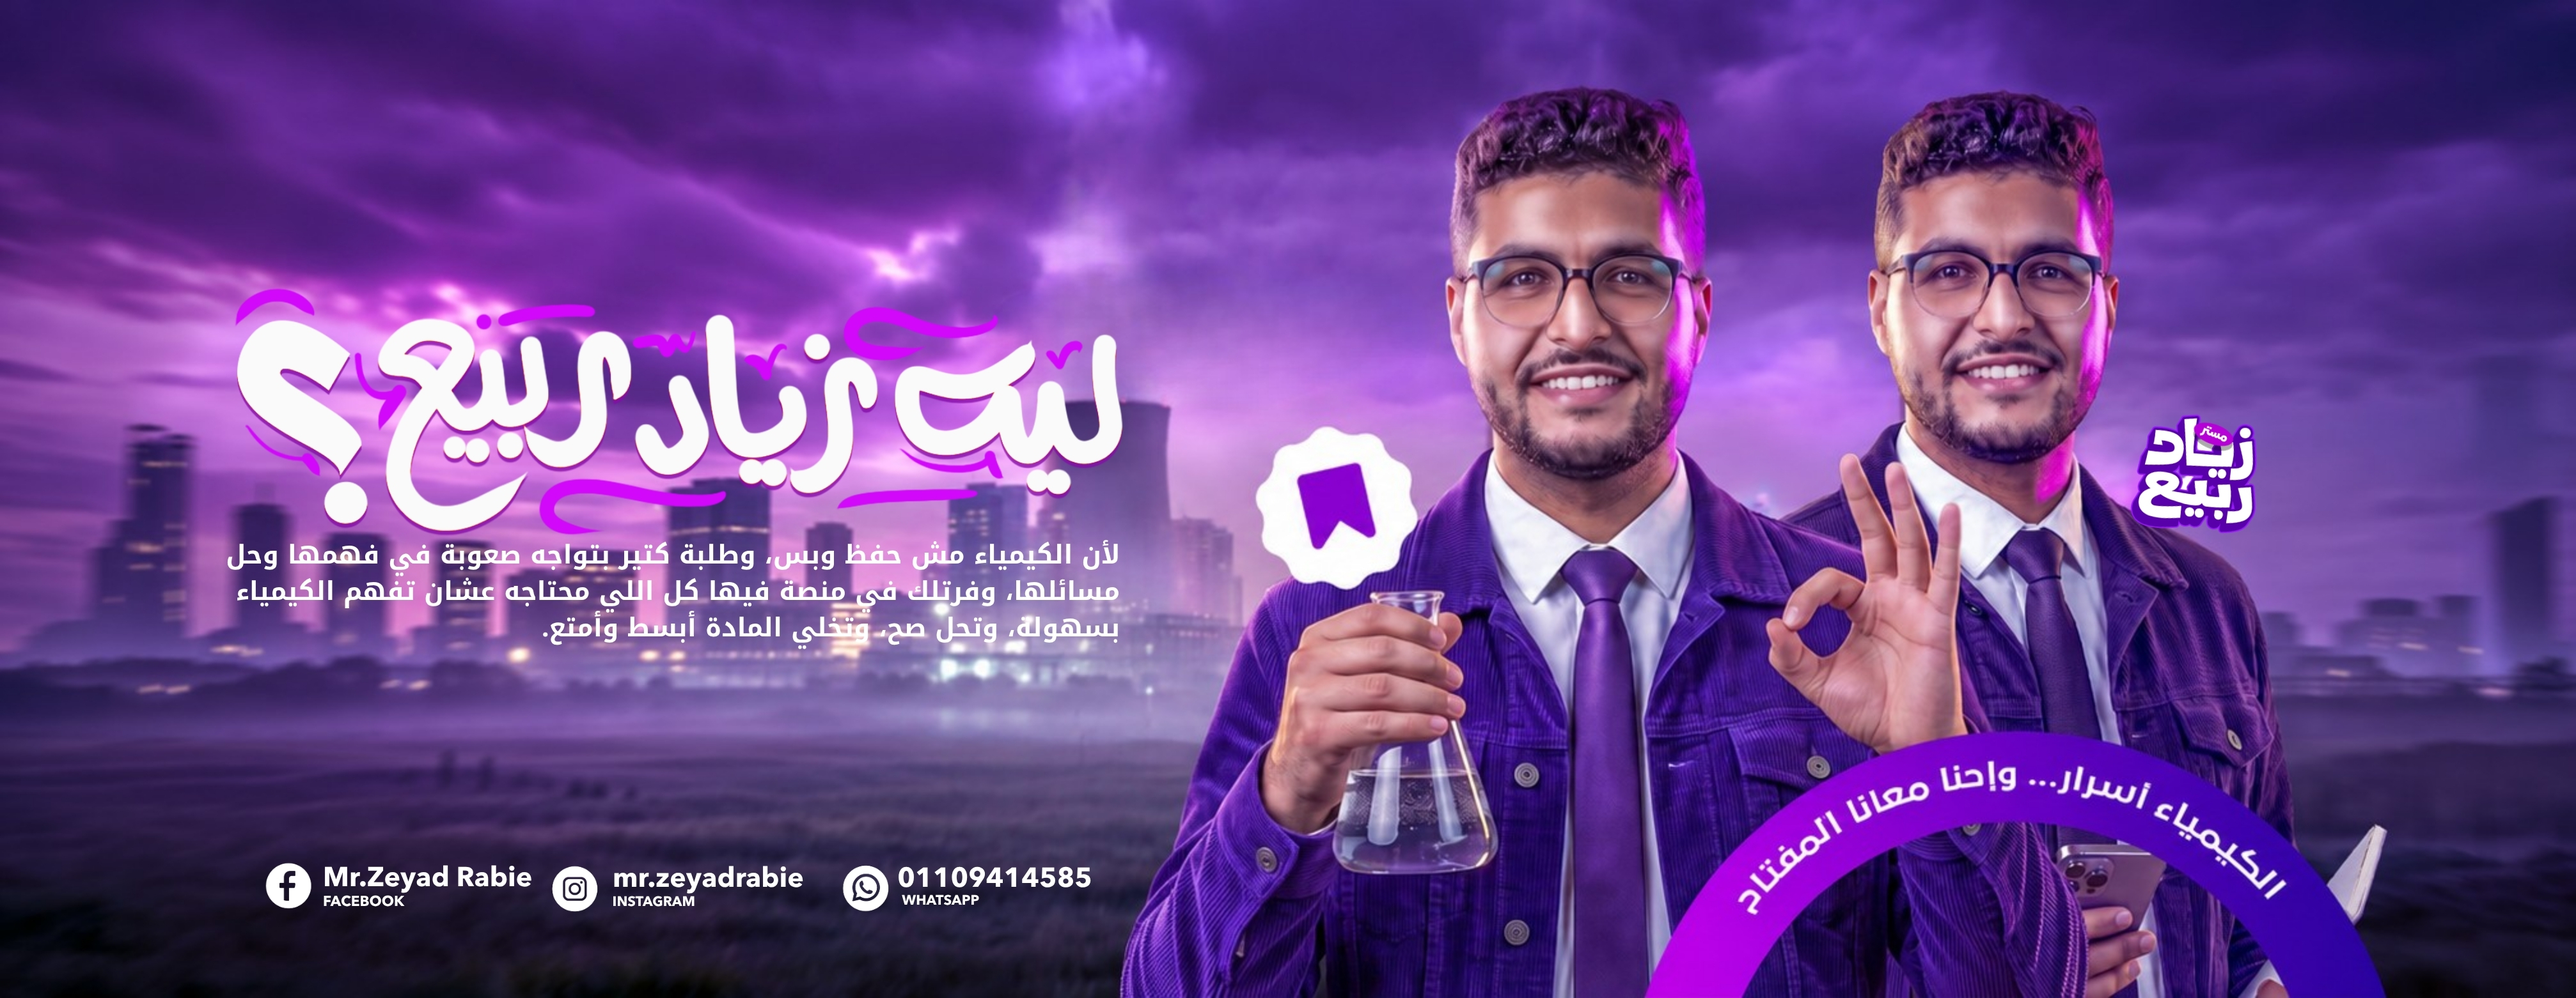
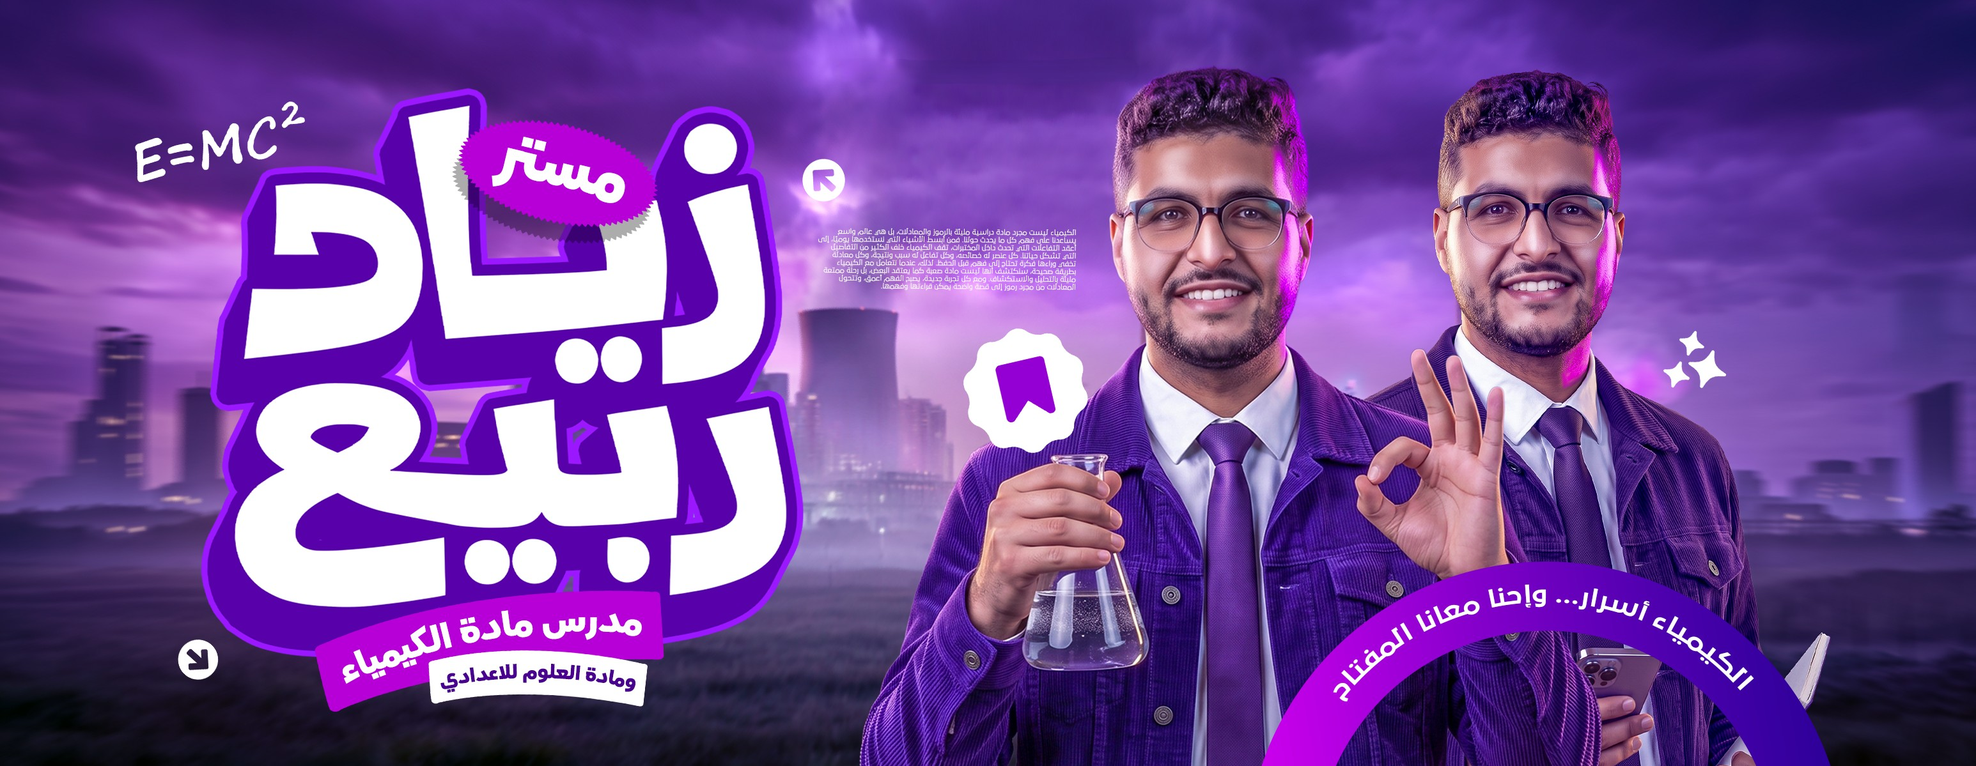
Update platform

diff --git a/src/components/layout/navbar/UserMenu.tsx b/src/components/layout/navbar/UserMenu.tsx
@@ -1,6 +1,6 @@
 import { useState, useEffect, useRef } from 'react';
 import { motion, AnimatePresence } from 'framer-motion';
-import { User, BookOpen, Settings, LogOut } from "lucide-react";
+import { User, LogOut } from "lucide-react";
 import { useNavigate } from 'react-router-dom';
 import { useApp } from '../../../context/AppContext';
 import { supabase } from '../../../lib/supabase';
@@ -109,20 +109,6 @@ const avatar = user.avatar_url || "/images/default-avatar.png";
      icon: User,
       label: 'حسابي',
       action: () => handleNavigate('/dashboard'),
-      color: 'text-gray-700 dark:text-gray-300',
-      hoverColor: 'hover:bg-gray-50 dark:hover:bg-gray-800'
-    },
-    {
-      icon: BookOpen,
-      label: 'كورساتي',
-      action: () => handleNavigate('/dashboard/courses'),
-      color: 'text-gray-700 dark:text-gray-300',
-      hoverColor: 'hover:bg-gray-50 dark:hover:bg-gray-800'
-    },
-    {
-      icon: Settings,
-      label: 'الإعدادات',
-      action: () => handleNavigate('/profile'),
       color: 'text-gray-700 dark:text-gray-300',
       hoverColor: 'hover:bg-gray-50 dark:hover:bg-gray-800'
     }
